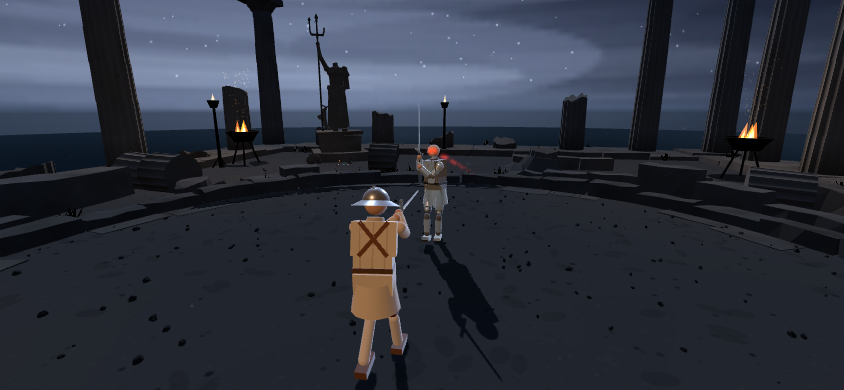
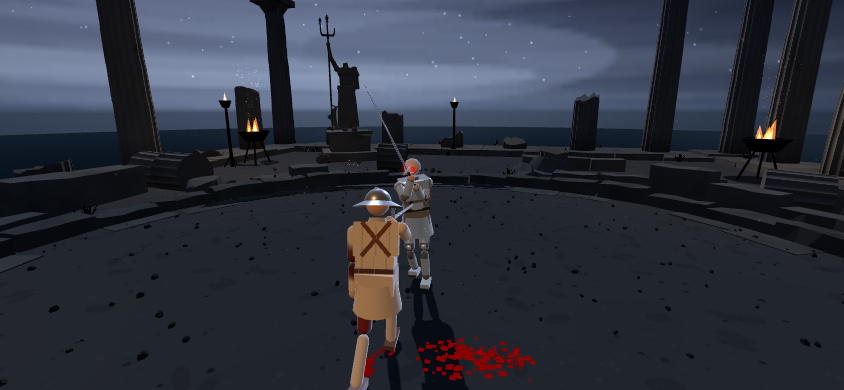
광기의 안광: 눈을 더 진한 핏빛으로 (사장님 확인 "눈은 더 진한 피빛으로. 나머진 좋아") · 빛꼬리 속도 계산 고침
- 심 텍스처: 흰빛·노랑 중심을 빼고 작은 밝은 점 → 진홍 → 검붉은 가장자리. 무리·잔상도 진홍
- 잔상 속도의 프레임 시간을 last 갱신 전에 재도록 고침 (전에는 늘 1 ms 로 잡혀 잔상이 수십 배 길게 늘어났다)
- 비교 이미지 docs/handoff/mad_eyes_v1.png 갱신, 스모크 콘솔 에러 0

Claude-Session: https://claude.ai/code/session_01HNkUuYHag8VSg6xpgbkGVR

diff --git a/src/mad_eyes.js b/src/mad_eyes.js
@@ -26,15 +26,15 @@ const TRAIL_V0 = 0.8; // m/s: 눈 자리가 이 속도부터 잔상이 보이기
 const TRAIL_V1 = 2.4; // m/s: 이 속도면 잔상이 가장 진하다 (휘두를 때 머리는 1.5~3 m/s)
 const DIE_T = 2.5; // 초: 죽은 뒤 꺼지는 시간
 
-/** 심: 흰빛 노란 중심 → 주홍 → 붉은 가장자리 (보통 섞기라 살색 위에서도 붉은 점으로 보인다) */
+/** 심: 작은 밝은 점 → 진홍 → 검붉은 가장자리 (보통 섞기라 살색 위에서도 붉은 점으로 보인다). 사장님: "더 진한 핏빛으로" — 흰빛·노랑을 뺐다 */
 function coreTexture() {
   return canvasTex(64, 64, (g, w, h) => {
     const c = w / 2;
     const rg = g.createRadialGradient(c, c, 0, c, c, c);
-    rg.addColorStop(0, 'rgba(255,240,200,1)');
-    rg.addColorStop(0.22, 'rgba(255,120,60,1)');
-    rg.addColorStop(0.5, 'rgba(230,30,20,0.85)');
-    rg.addColorStop(1, 'rgba(180,0,10,0)');
+    rg.addColorStop(0, 'rgba(255,120,110,1)');
+    rg.addColorStop(0.14, 'rgba(225,15,30,1)');
+    rg.addColorStop(0.5, 'rgba(160,0,20,0.92)');
+    rg.addColorStop(1, 'rgba(100,0,12,0)');
     g.fillStyle = rg;
     g.fillRect(0, 0, w, h);
   });
@@ -44,9 +44,9 @@ function haloTexture() {
   return canvasTex(64, 64, (g, w, h) => {
     const c = w / 2;
     const rg = g.createRadialGradient(c, c, 0, c, c, c);
-    rg.addColorStop(0, 'rgba(255,60,40,0.9)');
-    rg.addColorStop(0.35, 'rgba(255,30,20,0.4)');
-    rg.addColorStop(1, 'rgba(255,0,0,0)');
+    rg.addColorStop(0, 'rgba(235,15,30,0.9)');
+    rg.addColorStop(0.35, 'rgba(210,0,25,0.4)');
+    rg.addColorStop(1, 'rgba(180,0,20,0)');
     g.fillStyle = rg;
     g.fillRect(0, 0, w, h);
   });
@@ -118,13 +118,13 @@ export function attachMadEyes(fighter, on) {
   return {
     update(t) {
       const dt = last < 0 ? 0 : Math.min(0.05, t - last);
+      const rdt = last < 0 ? 0 : Math.min(0.25, Math.max(1e-3, t - last)); // 실제 프레임 시간 (속도 재기용) — last 를 갱신하기 전에 잰다
       last = t;
       // 죽으면 서서히 꺼진다
       if (fighter.state === 'dead') {
         if (dieT < 0) dieT = t;
         life = Math.max(0, 1 - (t - dieT) / DIE_T);
       }
-      const rdt = last < 0 ? 0 : Math.min(0.25, Math.max(1e-3, t - last)); // 실제 프레임 시간 (속도 재기용)
       for (const e of eyes) {
         const fl = flicker(t, e.ph);
         const k = fl * life;

diff --git a/docs/character_looks.md b/docs/character_looks.md
@@ -98,7 +98,7 @@ v3 추가 컷: [3/4](character_looks/margarethe_threeq.jpg) · [옆](character_l
 
 사장님(2026-09-28): "밤의 포세이돈 신전에 등장하는 하인리히 앞에 '광기의'라는 접두를 붙여서 다른 캐릭터로 구분하고 싶어. 모델링은 그대로 쓰되 광기를 표현하고 싶어. 눈을 붉게 할까? 안광이 아우라처럼 흔들리게."
 캐릭터 항목은 캐릭터 PM 몫(`eyes: 'madGlow'` 가 표식). 외형 PM은 안광만 — 모델링은 그대로.
-- **눈**: 두 눈 자리(기본 얼굴의 검은 눈 상자 바로 앞)에 눈보다 조금 큰 빛무리 두 겹 — 보통 섞기의 심(흰빛 중심 → 주홍 → 붉은 가장자리, 5 cm)은 낮 무대·눈밭·픽셀 모드에서도 붉은 점으로 읽히고, 더하기 섞기의 무리(16 cm)는 밤에 번진다. 머리 그룹의 자식이라 머리와 같이 움직인다.
+- **눈**: 두 눈 자리(기본 얼굴의 검은 눈 상자 바로 앞)에 눈보다 조금 큰 빛무리 두 겹 — 보통 섞기의 심(작은 밝은 점 → 진홍 → 검붉은 가장자리, 5 cm. 사장님 확인 뒤 "더 진한 핏빛으로": v1의 흰빛·노랑 중심을 뺐다)은 낮 무대·눈밭·픽셀 모드에서도 붉은 점으로 읽히고, 더하기 섞기의 무리(16 cm)는 밤에 번진다. 머리 그룹의 자식이라 머리와 같이 움직인다.
 - **흔들림**: 규칙적 깜빡임이 아니라 촛불처럼 — 서로 안 맞는 진동 셋(7.3·13.1·23.7 Hz 근처)과 해시 잡음을 섞어 밝기·크기가 함께 조금씩 일렁인다. 두 눈은 위상이 다르다. 시간 함수라 난수 없음.
 - **빛꼬리**: 눈 자리의 속도(세계 좌표 변화, 고개 돌림 포함)가 0.8 m/s 를 넘으면 눈이 지나온 쪽으로 붉은 잔상 여섯 장을 0.16초 분량 늘어놓는다(뒤로 갈수록 옅고 작게). 2.4 m/s 에서 가장 진하다. 속도로 늘어놓아 프레임 속도와 무관하게 같은 길이. 《베르세르크》 광전사 갑옷·《세키로》 붉은 눈의 분위기만 참고.
 - **얼굴 둘레**: 아주 옅은 붉은 빛 한 장(불투명도 0.055, 더하기 섞기) — 밤에만 은근히. 더 세게 하면 은발·투구까지 붉게 물들어 맨머리처럼 보였다. 몸 전체 오라는 없음("적막하고 고독한 대결").
